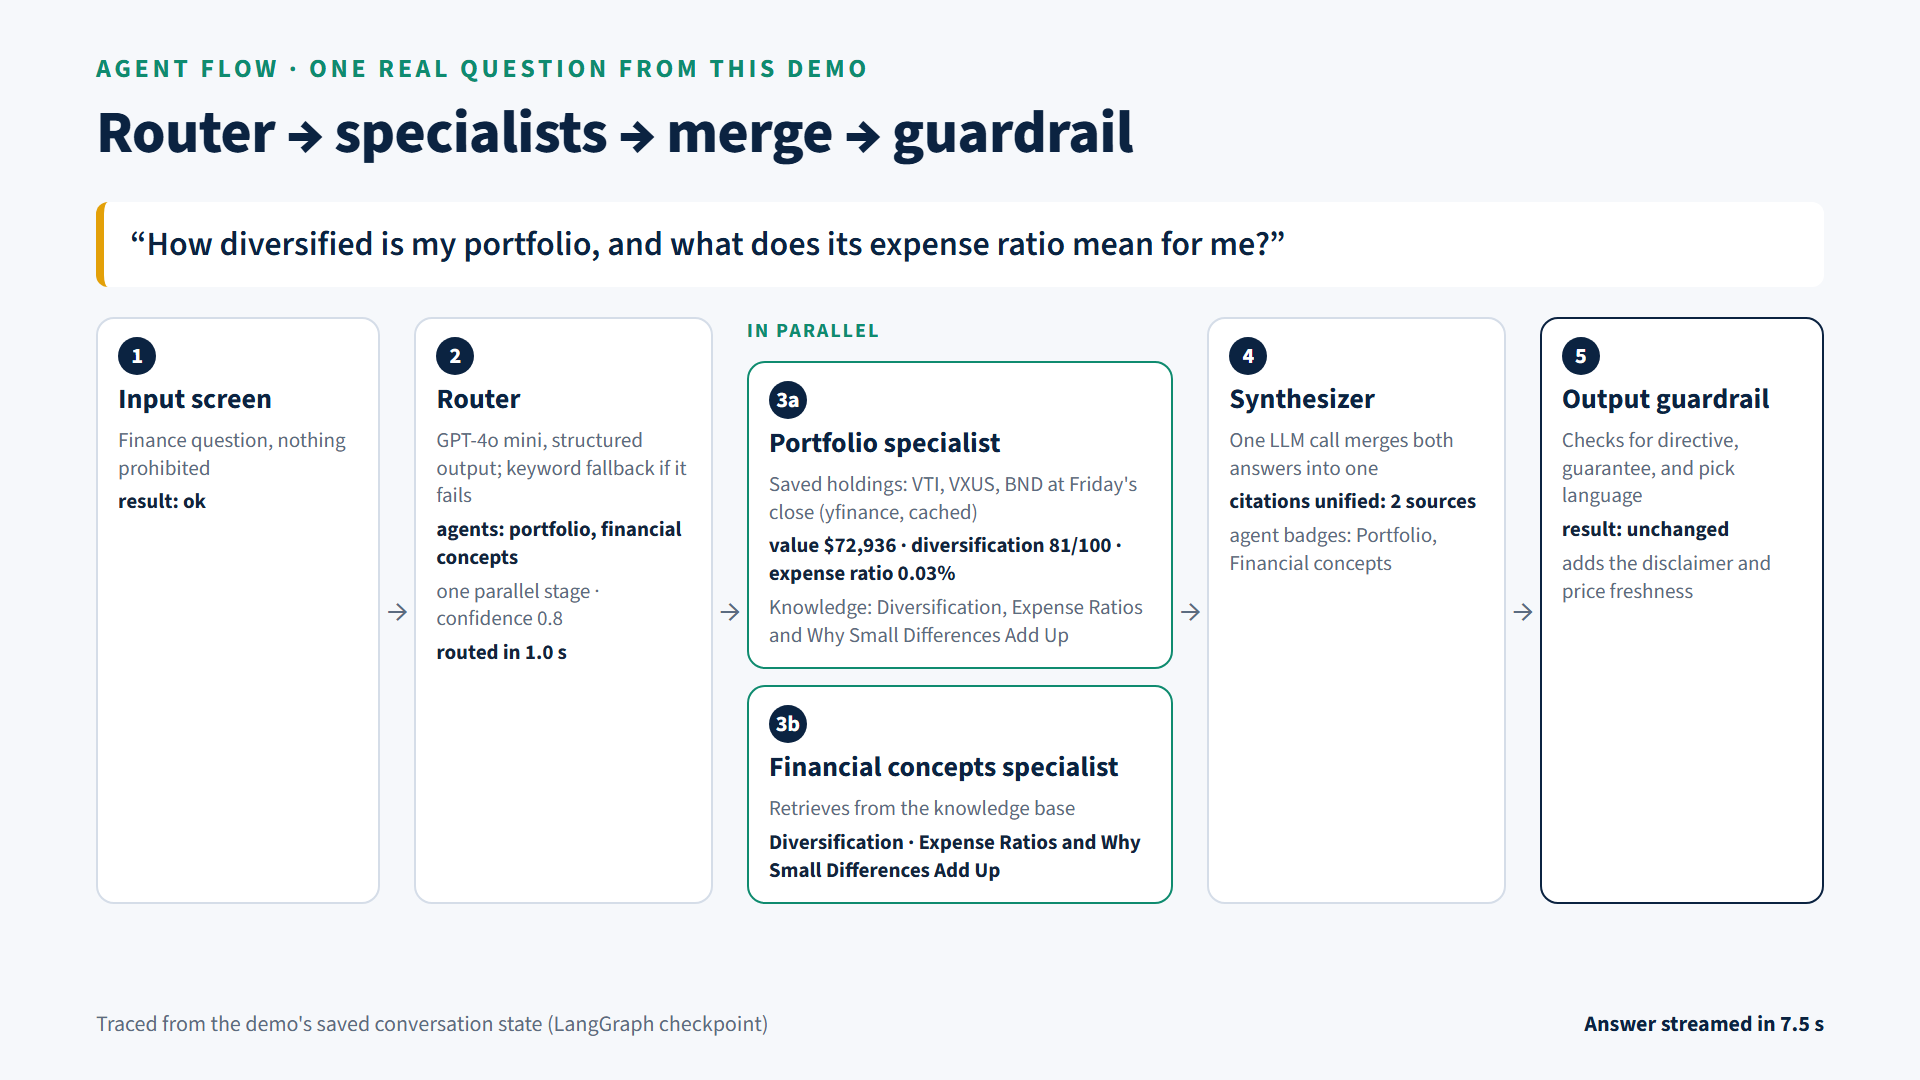
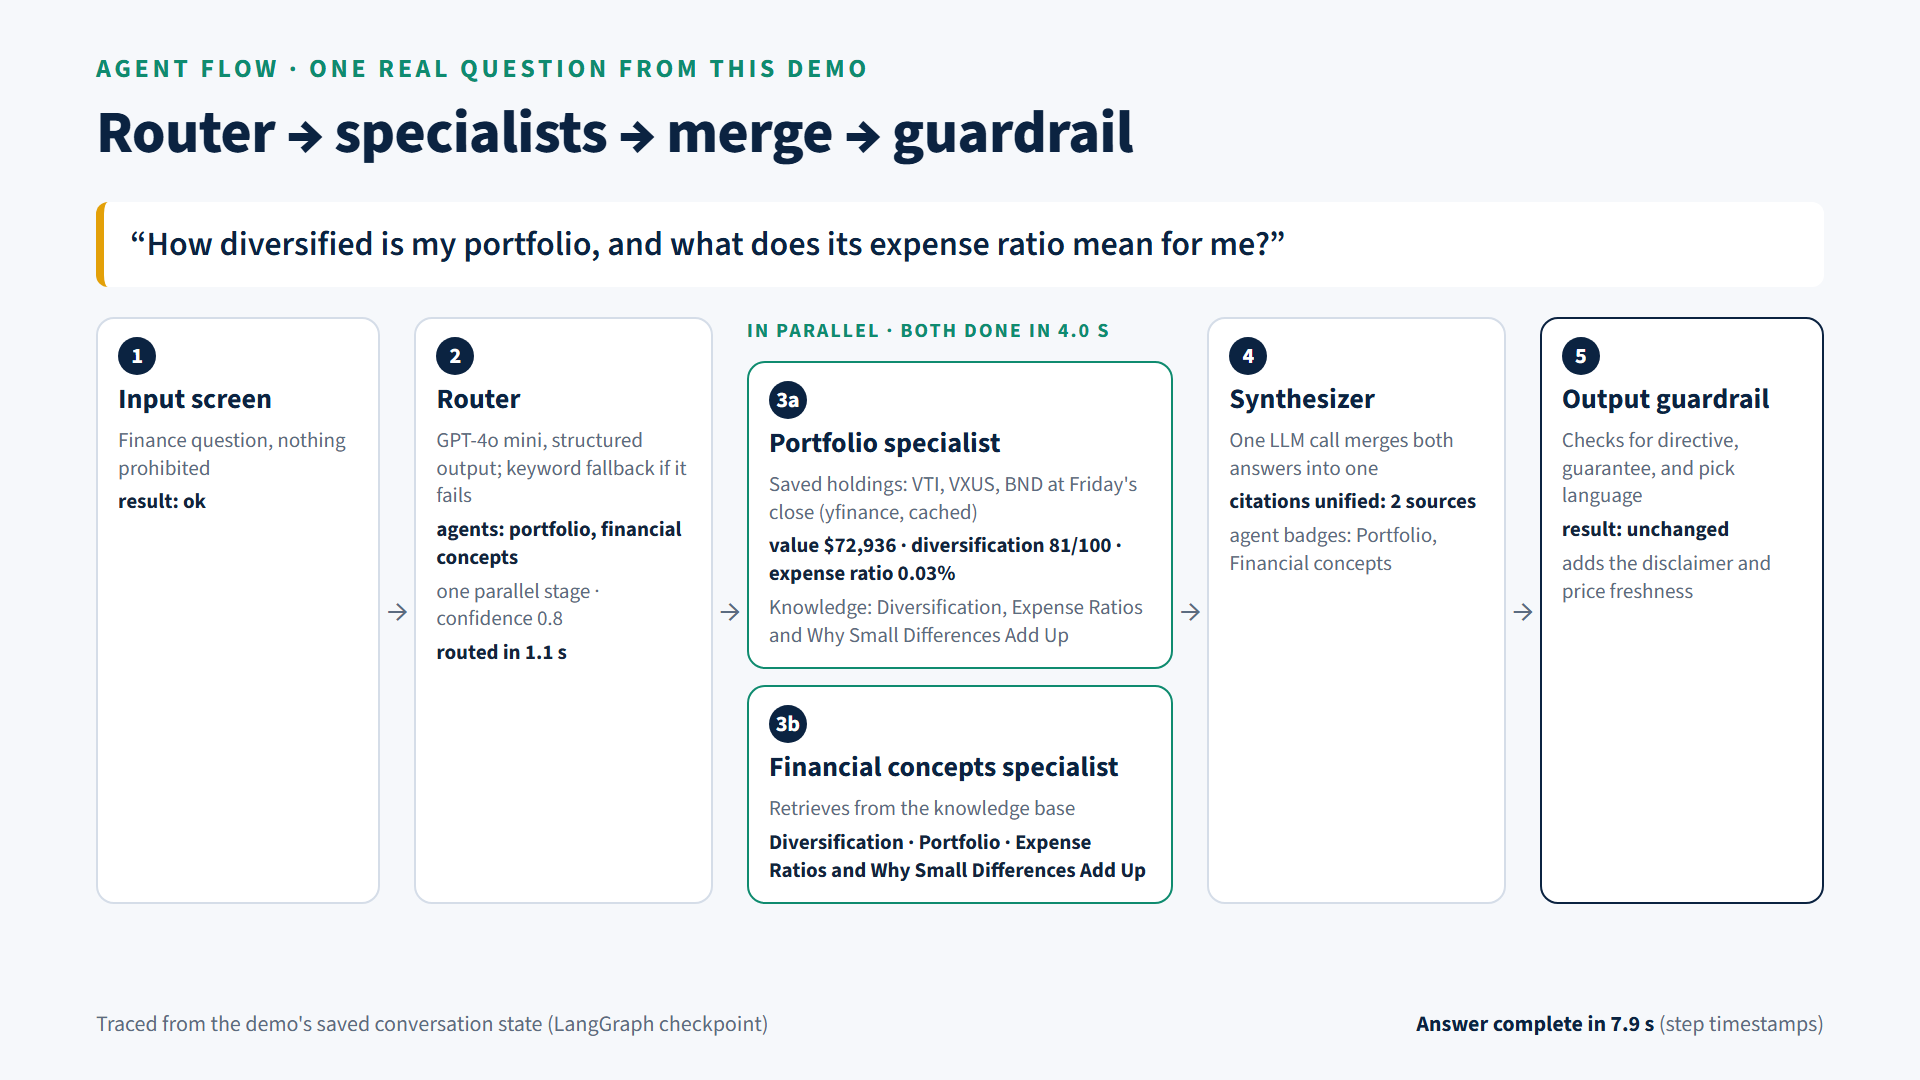
fix: keep the risk quiz open while it's being answered
On the welcome and profile pages, each quiz answer reran the page and collapsed the
"Not sure? Take a 5-question quiz" panel, so a new user had to reopen it after every
answer. The panel now stays open once the quiz is started (any answer or a result).
New test: test_quiz_stays_open_while_it_is_answered (fails without the fix).

Docs: test count 1,028. Diagrams: the tech-stack slide's test count, and the agent-flow
slide re-traced from the demo's multi-agent question with stage timings taken from the
conversation's checkpoint timestamps.

Changed region(s): [[0.4062, 0.7639, 0.5938, 0.825], [0.75, 0.9167, 0.9375, 0.9778], [0.4688, 0.275, 0.5312, 0.3361]]

diff --git a/src/web_app/profile_page.py b/src/web_app/profile_page.py
@@ -84,7 +84,12 @@ def _score_quiz() -> None:
 
 
 def _quiz() -> None:
-    with st.expander("Not sure? Take a 5-question quiz", expanded=False):
+    # Each answer reruns the page; once the quiz is started, keep it open rather than
+    # collapsing it after every answer.
+    started = QUIZ_RESULT in st.session_state or any(
+        st.session_state.get(f"quiz_{i}") is not None for i in range(len(QUESTIONS))
+    )
+    with st.expander("Not sure? Take a 5-question quiz", expanded=started):
         for i, (question, options) in enumerate(QUESTIONS):
             st.radio(question, [label for label, _ in options], index=None, key=f"quiz_{i}")
         st.button("See my result", on_click=_score_quiz, key="quiz_score")

diff --git a/tests/unit/web_app/test_app_chat.py b/tests/unit/web_app/test_app_chat.py
@@ -96,6 +96,14 @@ def test_quiz_sets_risk_tolerance(ui):
     assert any("**conservative** risk tolerance" in s for s in texts(app.success))
 
 
+def test_quiz_stays_open_while_it_is_answered(ui):
+    app, _, _ = ui(onboarded=False)
+    assert not app.expander[0].proto.expanded
+    radio = app.radio(key="quiz_0")
+    radio.set_value(radio.options[1]).run()
+    assert app.expander[0].proto.expanded  # answering doesn't collapse it
+
+
 # ---- chat ---------------------------------------------------------------------------------
 
 

diff --git a/docs/SUBMISSION.md b/docs/SUBMISSION.md
@@ -1,6 +1,6 @@
 # Submission Checklist
 
-Every grading-rubric line and every deliverable in the problem statement and milestones, with where to find the evidence. Status as of 2026-10-04: 1,027 tests passing, 100% line and branch coverage, CI green on all jobs.
+Every grading-rubric line and every deliverable in the problem statement and milestones, with where to find the evidence. Status as of 2026-10-04: 1,028 tests passing, 100% line and branch coverage, CI green on all jobs.
 
 ## Grading rubric
 
@@ -36,7 +36,7 @@ Every grading-rubric line and every deliverable in the problem statement and mil
 |---|---|---|
 | **Code organization (5)** | Perfect modularity; production-ready | The prescribed layout (`src/agents, core, data, rag, web_app, utils, workflow`), plus `mcp_server/` and `scripts/`. Domain logic is pure, LLM-free code shared by the agents and MCP. ruff and mypy are clean across `src/`. There's structured JSON logging with secret redaction, and configuration lives in `config.yaml` and `.env` (DESIGN §13). |
 | **Documentation (5)** | Architecture diagrams; detailed guides | [README](../README.md) has quick starts, configuration, usage with screenshots, example questions, API, tests, MCP, architecture, and troubleshooting. [DESIGN.md](DESIGN.md) has Mermaid architecture, workflow, and provider diagrams, 41 decisions, and the roadmap. Also [API.md](API.md), [MCP.md](MCP.md), [BENCHMARKS.md](BENCHMARKS.md), and [DEMO.md](DEMO.md). **Every public module, class, function, and method has a docstring: 100%, enforced in CI** by `interrogate src` (settings in `pyproject.toml`). Private helpers, magic methods, and nested functions are exempt. |
-| **Testing (5)** | 90%+ coverage including edge cases | **1,027 tests, 100% line and branch coverage** (gate 90%). The network is blocked in tests, and every external service has a fake. Edge cases include malformed and empty queries, prompt injection, every provider down, timeouts, empty portfolios, a missing API key, and 401s. Unit and integration tests cover the compiled graph end to end, a real MCP subprocess and HTTP server, and the full app with AppTest. CI runs six jobs ([README](../README.md#tests-and-evaluations)). |
+| **Testing (5)** | 90%+ coverage including edge cases | **1,028 tests, 100% line and branch coverage** (gate 90%). The network is blocked in tests, and every external service has a fake. Edge cases include malformed and empty queries, prompt injection, every provider down, timeouts, empty portfolios, a missing API key, and 401s. Unit and integration tests cover the compiled graph end to end, a real MCP subprocess and HTTP server, and the full app with AppTest. CI runs six jobs ([README](../README.md#tests-and-evaluations)). |
 
 ### Bonus: innovation and future outlook (up to 10)
 

diff --git a/docs/DESIGN.md b/docs/DESIGN.md
@@ -25,7 +25,7 @@ The design is organized around the grading rubric (`docs/ik/Grading Rubric_AI Fi
 | Market Intelligence (5) | Thoughtful interpretation | §3.3: indices, sectors, locally computed indicators, and a plain-English "market mood" read |
 | Code Organization (5) | Perfect modularity | §13: prescribed layout; domain logic separated from agents, UI, and MCP |
 | Documentation (5) | Diagrams + detailed guides | This doc (architecture and workflow diagrams, decisions log), README (Docker and Python quick starts, configuration, usage with screenshots, tests, MCP, architecture, troubleshooting), `docs/MCP.md`, `docs/BENCHMARKS.md` |
-| Testing (5) | **90%+ coverage incl. edge cases** | §11: 1,027 tests at 100% line and branch coverage (gate 90%), network blocked in tests, fakes for every external service, plus a CI job that builds and tests the Docker image |
+| Testing (5) | **90%+ coverage incl. edge cases** | §11: 1,028 tests at 100% line and branch coverage (gate 90%), network blocked in tests, fakes for every external service, plus a CI job that builds and tests the Docker image |
 | Bonus (≤10) | Beyond requirements | Monte Carlo goal planning, LLM provider fallback, routing evals, one-command Docker with an offline image (AWS designed), MCP over stdio and token-protected HTTP, saved data per browser, prompt-injection-aware guardrails |
 
 The problem statement also requires a demo video, performance benchmarks, sample data, and environment files. The benchmarks are in `docs/BENCHMARKS.md`, sample portfolios in `data/sample_portfolios/`, and the environment template in `.env.example`. The demo video is recorded separately.
@@ -845,7 +845,7 @@ A guardrail test suite includes about 40 adversarial prompts (advice requests, j
 
 **Tooling hygiene:** `ruff` (lint and format), `mypy` over all of `src/`, and `interrogate`, which requires a docstring on every public module, class, function, and method (100%).
 
-**Result with the voice feature:** 1,027 tests, 100% line and branch coverage, run in parallel in about 2 minutes (`docs/BENCHMARKS.md`).
+**Result with the voice feature:** 1,028 tests, 100% line and branch coverage, run in parallel in about 2 minutes (`docs/BENCHMARKS.md`).
 
 **CI (GitHub Actions, `.github/workflows/ci.yml`)** runs on every push and PR, on Python 3.12. CI never needs real API keys.
 

diff --git a/docs/BENCHMARKS.md b/docs/BENCHMARKS.md
@@ -17,7 +17,7 @@ The course documents ask for "performance considerations" and "performance bench
 | Single-specialist turn | p50 < 6 s | 5.8 s | reported by `scripts/bench_workflow.py` |
 | Multi-specialist turn | p50 < 15 s | 12.9 s | `scripts/bench_workflow.py` |
 | First visible progress in chat | p95 < 1 s | 17 ms | `scripts/bench_workflow.py` |
-| Test coverage | ≥ 90% | 100% (1,027 tests) | `pytest` and the CI `coverage` job |
+| Test coverage | ≥ 90% | 100% (1,028 tests) | `pytest` and the CI `coverage` job |
 | MCP tool call, server warm | < 1 s | 4–256 ms median | measured by `scripts/bench_mcp.py` |
 | Docker: healthy after `docker compose up` | < 60 s | about 10 s | the CI `docker` job |
 | Voice: transcription (median) | < 3 s | 1.15–1.56 s for 2–16 s questions | measured by `scripts/bench_voice.py` |
@@ -192,7 +192,7 @@ Set-Content samples\1_short.txt "What is an ETF?"
 
 ## Test suite run time
 
-`pytest` runs **1,027 tests** in parallel with pytest-xdist (`-n auto --dist loadgroup`), with branch coverage at 100%. CI runs the unit and UI suites as separate jobs and gates coverage on their combined data.
+`pytest` runs **1,028 tests** in parallel with pytest-xdist (`-n auto --dist loadgroup`), with branch coverage at 100%. CI runs the unit and UI suites as separate jobs and gates coverage on their combined data.
 
 | Where | Configuration | Wall time |
 |---|---|---|

diff --git a/docs/DEMO.md b/docs/DEMO.md
@@ -32,7 +32,7 @@ This script covers all of them, plus guardrails, the MCP server, and saved data.
 
 ## Closing line
 
-"Finnie: six LangGraph agents, a sourced knowledge base, live market data, and goal simulations, built to teach beginners and never to give advice. The code, the 1,027 tests, the benchmarks, and Docker setup are in the repository."
+"Finnie: six LangGraph agents, a sourced knowledge base, live market data, and goal simulations, built to teach beginners and never to give advice. The code, the 1,028 tests, the benchmarks, and Docker setup are in the repository."
 
 ## Notes
 

diff --git a/README.md b/README.md
@@ -217,7 +217,7 @@ print(out.agents, [s.url for s in out.sources])
 ## Tests and evaluations
 
 ```bash
-pytest                                   # 1,027 tests in parallel, 100% coverage; network blocked, so no API calls
+pytest                                   # 1,028 tests in parallel, 100% coverage; network blocked, so no API calls
 ruff check . && ruff format --check .    # lint and formatting
 mypy                                     # type checks
 python scripts/validate_kb.py            # knowledge base rules (schema, ids, sources)
